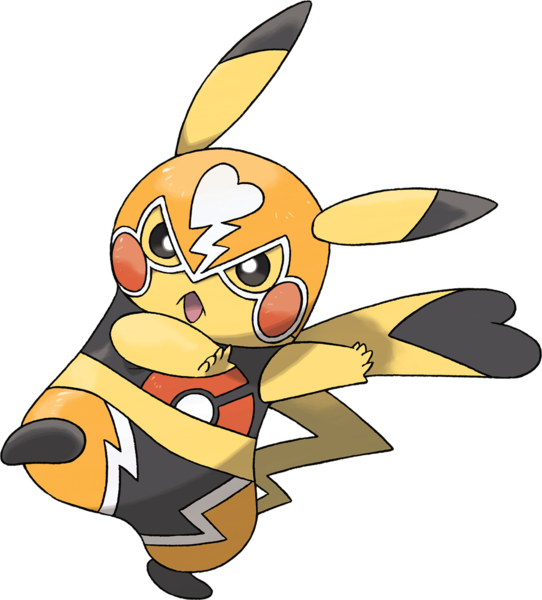
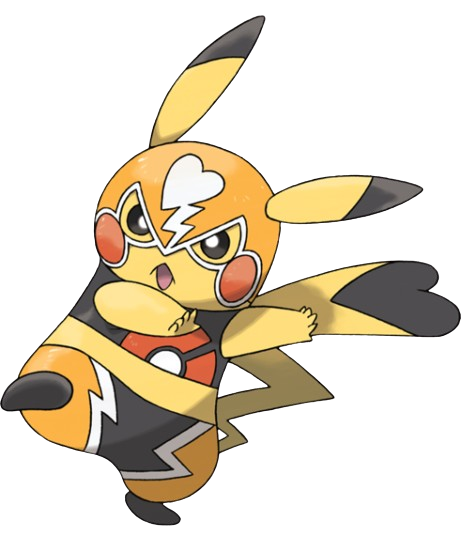
Resize des images de Pikachu pour le carousel :white_check_mark:

diff --git a/jeux.html b/jeux.html
@@ -52,7 +52,7 @@
                 </header>
             </section>
             <section>
-                <div class="container col-8 mx-auto m-2 p-2">
+                <div class="container col-10 mx-auto m-2 p-2">
                     <article
                         class="d-flex flex-column flex-md-row justify-content-center align-items-center m-3 p-2 gap-2 border border-2 border-warning">
                         <div class="col-12 col-md-6 d-flex justify-content-center">

diff --git a/style.css b/style.css
@@ -24,7 +24,6 @@ html, body {
     padding: 10px 20px;
 }
 
-
 /* Styles pour les flèches du carousel */
 .carousel-control-prev-icon,
 .carousel-control-next-icon {
